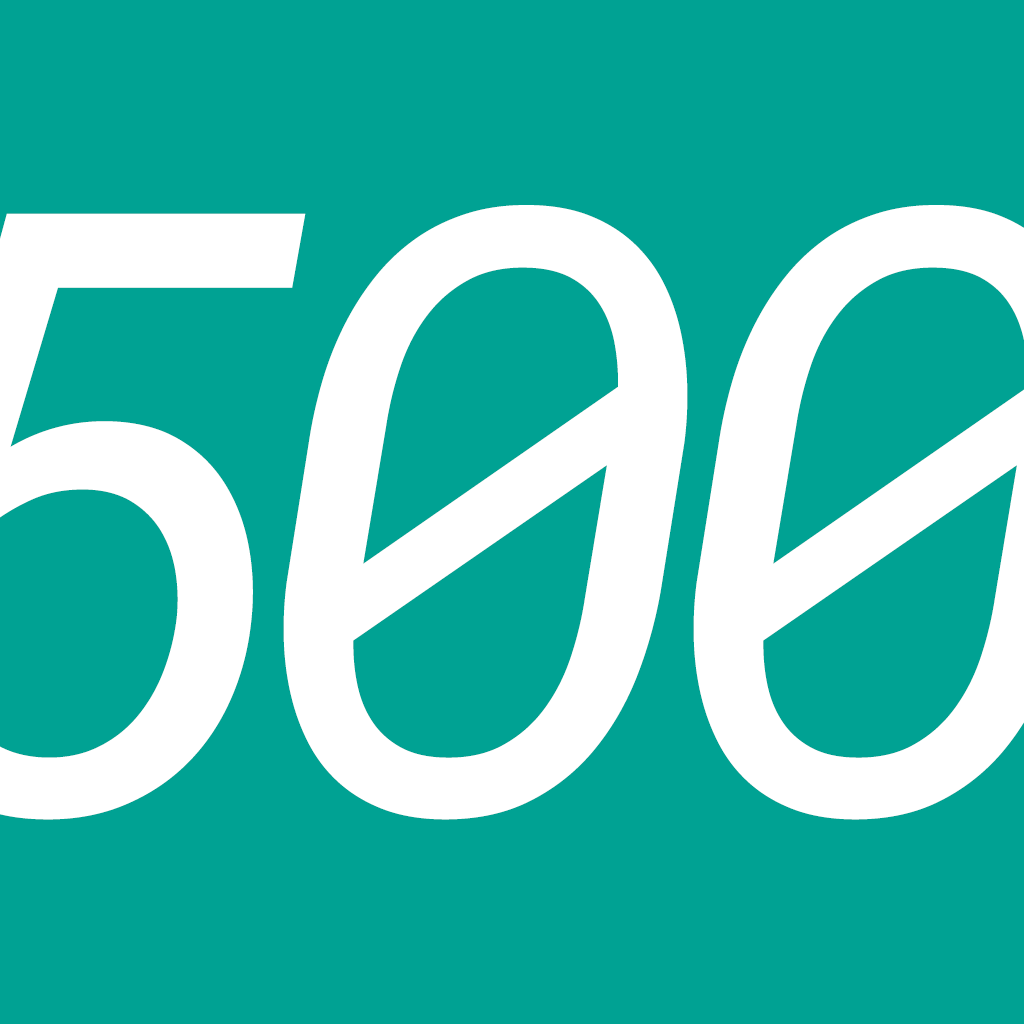
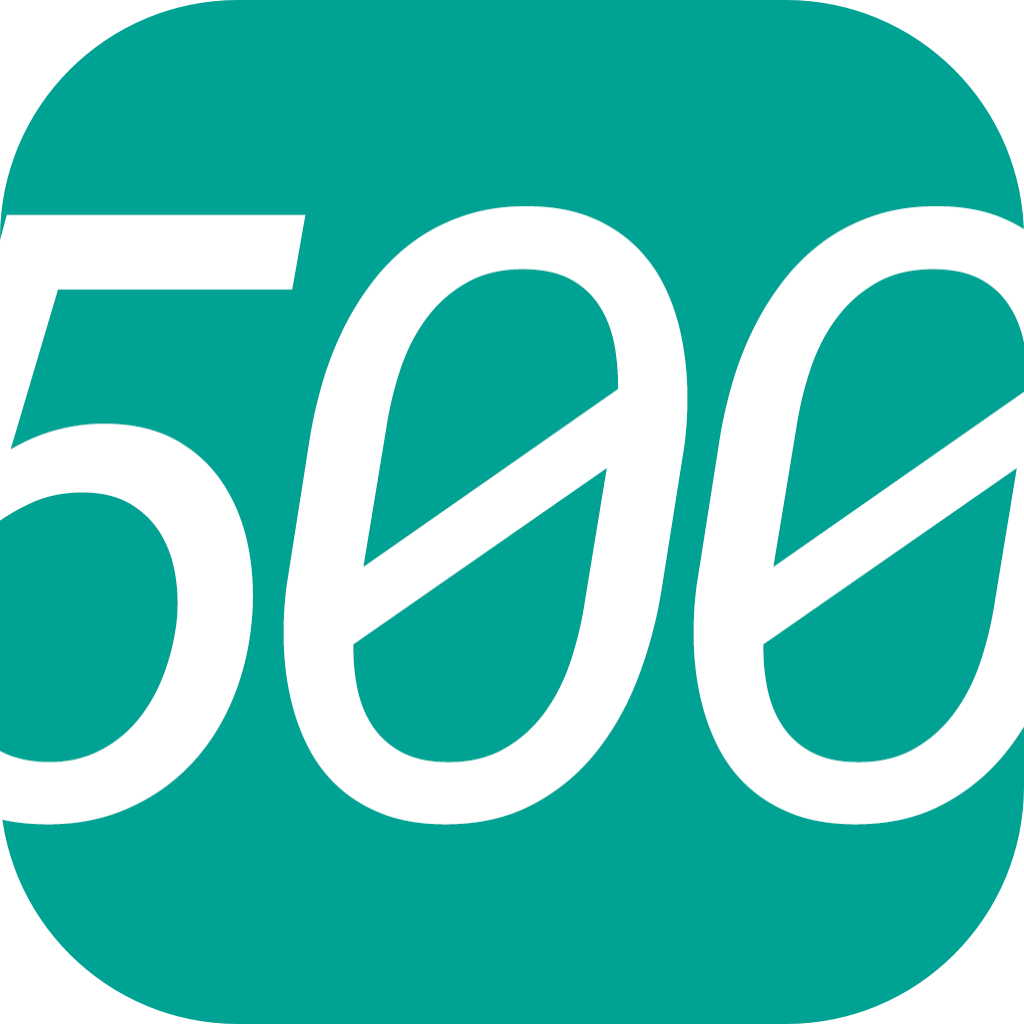
version 0.0.3

diff --git a/README.md b/README.md
@@ -1,10 +1,51 @@
-# green500
-Get the experience of development in the Sem Processo style
+<h1 align="center">
+  <br>
+    <img src="icon.png" alt="logo" width="200">
+  <br>
+  <br>
+  green500
+  <br>
+  <br>
+</h1>
+
+<h4 align="center">Get the experience of development in the Sem Processo style</h4>
+
+<p align="center">
+  <a href="https://marketplace.visualstudio.com/items?itemName=ArturGuedx.green500"><img src="https://img.shields.io/visual-studio-marketplace/v/ArturGuedx.green500" alt="Marketplace bagde"></a>
+  <a href="https://marketplace.visualstudio.com/items?itemName=ArturGuedx.green500"><img src="https://img.shields.io/visual-studio-marketplace/d/ArturGuedx.green500" alt="Marketplace downloads"></a>
+</p>
+
 
 > 📣  This theme is inspired by the lawtech [Sem Processo](https://www.semprocesso.com.br/) style guide.<br><br>
 > ❗ Under construction
 
-<!-- <p align="center">
-<img src="https://raw.githubusercontent.com/ArturGuedes/green500/master/images/2021-05-15.png" width=90%>
-<br/> -->
+<p align="center">
+<img src="images/2021-05-15.png" width=90%>
+<br/>
 
+
+# REMOVER
+
+
+A VS Code extension to debug web applications and extensions running in the [Mozilla Firefox browser](https://www.mozilla.org/en-US/firefox/developer/?utm_medium=vscode_extension&utm_source=devtools). [📦 Install from VS Code Marketplace](https://marketplace.visualstudio.com/items?itemName=firefox-devtools.vscode-firefox-debug).
+
+### Supported features
+
+* Pause [breakpoints](https://code.visualstudio.com/docs/editor/debugging#_breakpoints), including advanced [conditional](https://code.visualstudio.com/docs/editor/debugging#_conditional-breakpoints) and [inline](https://code.visualstudio.com/docs/editor/debugging#_inline-breakpoints) modes
+* Pause on object property changes with [Data breakpoints](https://code.visualstudio.com/docs/editor/debugging#_data-breakpoints)
+* Inject logging during debugging using [logpoints](https://code.visualstudio.com/docs/editor/debugging#_logpoints)
+* Debugging eval scripts, script tags, and scripts that are added dynamically and/or source mapped
+* *Variables* pane for inspecting and setting values
+* *Watch* pane for evaluating and watching expressions
+* *Console* for logging and REPL
+* Debugging Firefox extensions
+* Debugging Web Workers
+* Compatible with [remote development](https://code.visualstudio.com/docs/remote/remote-overview)
+
+## Getting Started
+
+You can use this extension in **launch** or **attach** mode.
+
+In **launch** mode it will start an instance of Firefox navigated to the start page of your application
+and terminate it when you stop debugging. You can also set the `reAttach` option in your launch configuration to `true`, in this case Firefox won't be terminated at the end of your debugging session and the debugger will re-attach to it when
+you start the next debugging session - this is a lot faster than restarting Firefox every time. `reAttach` also works for WebExtension debugging: in this case, the WebExtension is (re-)installed as a [temporary add-on](https://developer.mozilla.org/en-US/Add-ons/WebExtensions/Temporary_Installation_in_Firefox).
